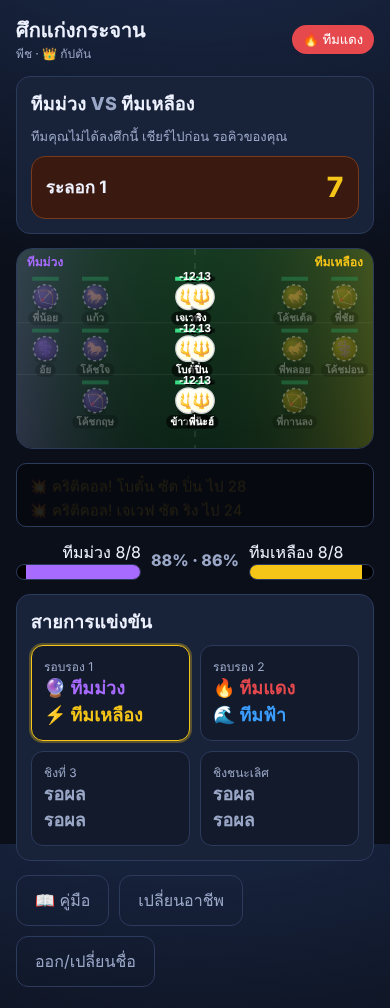
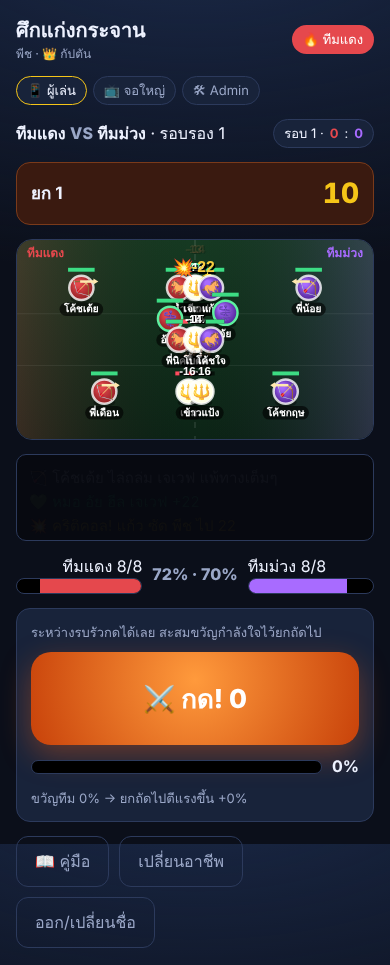
ออกครบ 8 คนตั้งแต่ยกแรก พักยกจัดทัพใหม่ทั้งทัพ ปรับสมดุล
Claude-Session: https://claude.ai/code/session_01JbJWCdY4QKd2woKbG6bJFF

diff --git a/js/app.js b/js/app.js
@@ -45,7 +45,7 @@
 
   // ---------- ศึกปัจจุบัน ----------
   const STAGES = ['plan', 'wave1', 'pause1', 'wave2', 'pause2', 'wave3', 'result'];
-  const STAGE_NAME = { plan: 'วางแผนตาบอด', wave1: 'ระลอก 1', pause1: 'พักปรับทัพ 1', wave2: 'ระลอก 2', pause2: 'พักปรับทัพ 2', wave3: 'ระลอก 3 — ชี้ขาด', result: 'ผลการรบ' };
+  const STAGE_NAME = { plan: 'วางแผนตาบอด', wave1: 'ยก 1', pause1: 'พักยก 1', wave2: 'ยก 2', pause2: 'พักยก 2', wave3: 'ยก 3 — ชี้ขาด', result: 'ผลการรบ' };
   function stageDur(stage) { const S = settings(); return { plan: S.tPlan, wave1: S.tWave1, pause1: S.tPause, wave2: S.tWave2, pause2: S.tPause, wave3: S.tWave3, result: 0 }[stage] || 0; }
   function waveIndexOf(stage) { return { wave1: 0, wave2: 1, wave3: 2 }[stage]; }
   function sideOf(team) { const m = st.match; if (!m) return null; return m.a === team ? 'A' : m.b === team ? 'B' : null; }
@@ -112,7 +112,7 @@
   function canMove(pid) {
     const p = st.players[pid]; const mine = myPlayer(); if (!p || !mine || p.team !== mine.team) return false;
     if (st.match && sideOf(p.team) && /^wave/.test(st.match.stage)) return false;
-    if (st.match && sideOf(p.team) && st.match.stage !== 'plan' && st.match.stage !== 'result') { const u = computeMatch().units.find((x) => x.id === pid); if (u && u.deployed) return false; }
+    if (st.match && sideOf(p.team) && st.match.stage !== 'plan' && st.match.stage !== 'result') { const u = computeMatch().units.find((x) => x.id === pid); if (u && !u.alive) return false; }
     return pid === me.pid || isCaptain() || isAdmin;
   }
   let tapTimer = null;
@@ -251,7 +251,7 @@
     const rows = ['หน้า', 'กลาง', 'หลัง'];
     let h = `<div class="board-head"><div></div><div>เลนบน</div><div>เลนกลาง</div><div>เลนล่าง</div></div><div class="board">`;
     for (let r = 0; r < 3; r++) {
-      h += `<div class="rowlab"><b>${rows[r]}</b><span>ระลอก ${r + 1}</span></div>`;
+      h += `<div class="rowlab"><b>${rows[r]}</b></div>`;
       for (let l = 0; l < 3; l++) {
         const c = r * 3 + l; const p = byCell[c];
         if (!p) { h += `<div class="cell ${ui.sel && opts.interactive ? 'target' : ''}" data-act="cell" data-team="${team}" data-cell="${c}"></div>`; continue; }
@@ -288,9 +288,8 @@
       <h3>เกมคืออะไร</h3><div>ทีมละ 8 ฮีโร่ (คุณเองนั่นแหละ) เลือกอาชีพ วางตำแหน่ง แล้วให้สนามจำลองสู้กันเอง 3 ระลอก ใครเหลือเลือดรวมมากกว่าชนะ แต่ละคู่ต้องชนะ ${S.roundsToWin} ใน 3 รอบ ทุกรอบเปลี่ยนอาชีพและจัดทัพใหม่ได้ · จับฉลาก รอบรอง → ชิงที่ 3 → ชิงชนะเลิศ รางวัล ${S.prizes.map((p) => p.toLocaleString()).join(' / ')} บาท</div>
       <h3>อาชีพแพ้ทางเป็นวงกลม</h3><div class="counter-table"><div>🐎 ม้า<br><b>ชนะ</b> ธนู 🏹</div><div>🔱 หอก<br><b>ชนะ</b> ม้า 🐎</div><div>🏹 ธนู<br><b>ชนะ</b> หอก 🔱</div></div>
       <div class="small muted">ตีคู่ที่ชนะทาง ×${S.counterWin} / ตีคู่ที่แพ้ทาง ×${S.counterLose} · ⚕ หมอไม่โจมตี ฮีลเพื่อนใกล้ๆ ทุก ${S.healEvery} วิ (ทีมละไม่เกิน ${S.medicMax}) · ม้าที่วิ่งมาไกลพุ่งชนครั้งแรกแรง ×${S.cavCharge}</div>
-      <h3>แถวที่วาง = จังหวะที่ออก</h3><ol><li><b>แถวหน้า</b> ออกวินาทีที่ 0 (ระลอก 1)</li><li><b>แถวกลาง</b> ออกระลอก 2</li><li><b>แถวหลัง</b> ไพ่ตาย ออกระลอก 3 ดาเมจทุกคน ×${S.waveMult[2]}</li></ol>
-      <div class="small">มี 9 ช่อง 8 คน เลนบน/กลาง/ล่าง มีผล: หอกตีคนที่ใกล้ในเลนตัวเองก่อน ม้าพุ่งข้ามไปหาแถวหลัง ธนูยิงจากไกล</div>
-      <h3>ช่วงพักปรับทัพ (${S.tPause} วิ) ทำได้ 4 อย่าง</h3><ol><li>ย้ายฮีโร่ที่ <b>ยังไม่ออก</b> ไปช่องไหนก็ได้</li><li>กัปตันเลือก <b>แผนเข้าตี</b>: ปะทะหน้า / เข้าด้านข้าง / โอบหลัง</li><li>กัปตันเลือก <b>ไอเทม</b> 1 ชิ้น (มี 4 ชิ้น แต่ละชิ้นใช้ได้ครั้งเดียวตลอดคู่ ต้องเลือกว่าจะทุ่มรอบไหน)</li><li><b>ทุกคนรัวกด</b> เติมขวัญกำลังใจ → ระลอกถัดไปตีแรงขึ้นสูงสุด +${Math.round(S.moraleMax * 100)}%</li></ol>
+      <h3>ตำแหน่งมีผล</h3><div class="small">ทั้ง 8 คนออกพร้อมกันตั้งแต่ยกแรก มี 9 ช่อง: <b>แถวหน้า</b> ปะทะก่อน · <b>แถวหลัง</b> ปลอดภัยกว่า (เหมาะกับธนู/หมอ) แต่ม้าศัตรูที่เลือก "โอบหลัง" จะพุ่งมาหา · เลนบน/กลาง/ล่าง: หอกตีคนที่ใกล้ในเลนตัวเองก่อน · ยก 2 ดาเมจ ×${S.waveMult[1]} ยก 3 ×${S.waveMult[2]}</div>
+      <h3>พักยก (${S.tPause} วิ) ทุกคนที่รอดกลับเข้าตำแหน่ง เลือดเท่าเดิม ทำได้ 4 อย่าง</h3><ol><li>จัดตำแหน่งใหม่ <b>ทั้งทัพ</b> (คนที่ล้มแล้วไม่ฟื้น) เช่น เอาหอกไปดักเลนที่ม้าเขามา</li><li>กัปตันเลือก <b>แผนเข้าตี</b>: ปะทะหน้า / เข้าด้านข้าง / โอบหลัง</li><li>กัปตันเลือก <b>ไอเทม</b> 1 ชิ้น (มี 4 ชิ้น แต่ละชิ้นใช้ได้ครั้งเดียวตลอดคู่ ต้องเลือกว่าจะทุ่มรอบไหน)</li><li><b>ทุกคนรัวกด</b> เติมขวัญกำลังใจ → ระลอกถัดไปตีแรงขึ้นสูงสุด +${Math.round(S.moraleMax * 100)}%</li></ol>
       <h3>ไอเทมจากกิจกรรม outing</h3><div class="small">ทุกทีมได้ครบ 4 ชิ้น แต่ <b>ระดับต่างกันตามอันดับ</b>: ที่ 1 = เทพ, ที่ 2 = แกร่ง, ที่ 3 = ธรรมดา, ที่ 4 = ขำๆ</div>
       ${Object.values(D.ITEMS).map((I) => `<div class="small">${I.emoji} <b>${I.name}</b> — ${I.desc}: ${I.tiers.map((v, i) => D.TIER_NAMES[i] + ' ' + v + I.unit).join(' / ')}</div>`).join('')}
       <h3>ตัดสินผล</h3><div class="small">ฝ่ายไหนล้มหมดก่อนแพ้ทันที → ครบ 3 ระลอกวัด % เลือดรวม → เท่ากันวัดยอดรัวกด · ดาเมจมีสุ่ม ±15% และคริติคอล 10% ×2 เพื่อให้ลุ้น แต่การวางแผนคือตัวตัดสินหลัก</div>
@@ -333,9 +332,9 @@
   function viewLobbyPlayer(p) {
     const team = p.team;
     let h = `<div class="panel"><div class="row"><h2 class="grow">จัดทัพ ${D.TEAMS[team].name}</h2><span class="badge">${teamPlayers(team).filter((x) => x.cell != null).length}/8 ลงสนาม</span></div>
-      <div class="hint">${ui.sel ? '👉 แตะช่องว่างที่จะวาง (แตะช่องที่มีคนเพื่อสลับ)' : 'แตะตัวเอง' + (isCaptain() ? ' หรือเพื่อนร่วมทีม (กัปตันย้ายได้ทุกคน)' : '') + ' แล้วแตะช่องที่จะวาง · แถวหน้าออกก่อน แถวหลังออกทีหลัง'}</div>
+      <div class="hint">${ui.sel ? '👉 แตะช่องว่างที่จะวาง (แตะช่องที่มีคนเพื่อสลับ)' : 'แตะตัวเอง' + (isCaptain() ? ' หรือเพื่อนร่วมทีม (กัปตันย้ายได้ทุกคน)' : '') + ' แล้วแตะช่องที่จะวาง · แถวหน้าปะทะก่อน แถวหลังปลอดภัยกว่าแต่ม้าศัตรูพุ่งมาหาได้'}</div>
       ${boardHtml(team, { interactive: true })}</div>`;
-    h += `<div class="panel"><h2>แผนเข้าตีระลอกแรก ${isCaptain() ? '' : '<span class="small muted">(กัปตันเลือก)</span>'}</h2>${plansHtml(team, isCaptain())}</div>`;
+    h += `<div class="panel"><h2>แผนเข้าตียกแรก ${isCaptain() ? '' : '<span class="small muted">(กัปตันเลือก)</span>'}</h2>${plansHtml(team, isCaptain())}</div>`;
     h += `<div class="panel"><h2>ไอเทมของทีม</h2><div class="hint">ได้จากอันดับกิจกรรม outing ใช้ได้ในช่วงพักปรับทัพ</div>${itemsHtml(team, false)}</div>`;
     h += `<div class="panel"><h2>สมาชิก</h2><div class="roster-list">` + roster(team).map((n) => { const q = playerByName(team, n); return `<div class="u"><span>${q && q.cls ? D.CLASSES[q.cls].emoji : (q ? '❔' : '⬜')}</span><span>${esc(n)} ${captain(team) === n ? '👑' : ''}</span><span class="small muted">${q ? (q.cell != null ? 'ลงสนาม' : 'ยังไม่วาง') : 'ยังไม่เข้า'}</span></div>`; }).join('') + `</div></div>`;
     h += practiceHtml(team);
@@ -399,20 +398,20 @@
     if (m.stage === 'result') return h + viewResult() + (st.bracket ? viewBracket() : '');
     if (wave) {
       h += `<div class="arena"><canvas id="arena"></canvas><div class="overlay" id="arena-overlay"></div></div><div class="commentary" id="commentary"></div>` + hpSummaryHtml();
-      h += `<div class="panel"><div class="hint">ระหว่างรบรัวกดได้เลย สะสมขวัญกำลังใจไว้ระลอกถัดไป</div>` + tapHtml(side) + `</div>`;
+      h += `<div class="panel"><div class="hint">ระหว่างรบรัวกดได้เลย สะสมขวัญกำลังใจไว้ยกถัดไป</div>` + tapHtml(side) + `</div>`;
       return h;
     }
     // plan / pause
     const S = settings(); const w = m.stage === 'plan' ? 0 : m.stage === 'pause1' ? 1 : 2;
     const cm = computeMatch();
     if (m.stage !== 'plan') h += hpSummaryHtml();
-    h += `<div class="panel"><div class="row"><h2 class="grow">${m.stage === 'plan' ? 'วางทัพ 8 คน' : 'ปรับทัพก่อนระลอก ' + (w + 1)}</h2><span class="badge">${teamPlayers(team).filter((x) => x.cell != null).length}/8</span></div>
-      <div class="hint">${ui.sel ? '👉 แตะช่องที่จะวาง' : (m.stage === 'plan' ? 'คู่แข่งยังไม่เห็นทัพคุณ วางแล้วเลือกแผน' : 'ย้ายได้เฉพาะคนที่ยังไม่ออก (⚔ = ออกสนามแล้ว)')}</div>${boardHtml(team, { interactive: true })}${m.stage === 'plan' ? `<button class="ghost" data-act="change-class">🔁 เปลี่ยนอาชีพของฉัน (${D.CLASSES[p.cls].emoji} ${D.CLASSES[p.cls].name})</button>` : ''}</div>`;
+    h += `<div class="panel"><div class="row"><h2 class="grow">${m.stage === 'plan' ? 'วางทัพ 8 คน' : 'พักยก — จัดทัพใหม่ก่อนยก ' + (w + 1)}</h2><span class="badge">${teamPlayers(team).filter((x) => x.cell != null).length}/8</span></div>
+      <div class="hint">${ui.sel ? '👉 แตะช่องที่จะวาง' : (m.stage === 'plan' ? 'คู่แข่งยังไม่เห็นทัพคุณ วางแล้วเลือกแผน' : 'พักยก: ทุกคนที่ยังรอดกลับเข้าตำแหน่ง ย้ายใหม่ได้ทั้งทัพ (เลือดไม่ฟื้น)')}</div>${boardHtml(team, { interactive: true })}${m.stage === 'plan' ? `<button class="ghost" data-act="change-class">🔁 เปลี่ยนอาชีพของฉัน (${D.CLASSES[p.cls].emoji} ${D.CLASSES[p.cls].name})</button>` : ''}</div>`;
     if (m.stage !== 'plan') {
       h += `<div class="panel"><h3>ทัพศัตรู (${D.TEAMS[enemy].name}) ตอนนี้</h3>${boardHtml(enemy, {})}</div>`;
     }
-    h += `<div class="panel"><h2>แผนเข้าตีระลอก ${w + 1} ${isCaptain() ? '' : '<span class="small muted">(กัปตันเลือก)</span>'}</h2>${plansHtml(team, isCaptain())}</div>`;
-    if (m.stage !== 'plan') h += `<div class="panel"><h2>ใช้ไอเทมระลอกนี้ ${isCaptain() ? '' : '<span class="small muted">(กัปตันเลือก)</span>'}</h2><div class="hint">ระลอกละ 1 ชิ้น แต่ละชิ้นใช้ได้ครั้งเดียวตลอดคู่นี้ (ทุกรอบรวมกัน) แตะซ้ำเพื่อยกเลิก</div>${itemsHtml(team, isCaptain())}</div>`;
+    h += `<div class="panel"><h2>แผนเข้าตียก ${w + 1} ${isCaptain() ? '' : '<span class="small muted">(กัปตันเลือก)</span>'}</h2>${plansHtml(team, isCaptain())}</div>`;
+    if (m.stage !== 'plan') h += `<div class="panel"><h2>ใช้ไอเทมยกนี้ ${isCaptain() ? '' : '<span class="small muted">(กัปตันเลือก)</span>'}</h2><div class="hint">ยกละ 1 ชิ้น แต่ละชิ้นใช้ได้ครั้งเดียวตลอดคู่นี้ (ทุกรอบรวมกัน) แตะซ้ำเพื่อยกเลิก</div>${itemsHtml(team, isCaptain())}</div>`;
     h += `<div class="panel sticky-bottom"><h2>🔥 รัวกดเติมขวัญกำลังใจ</h2>` + tapHtml(side) + `</div>`;
     return h;
   }
@@ -420,7 +419,7 @@
     const stg = currentTapStage(); const stages = Object.keys(MORALE_STAGES).find((k) => MORALE_STAGES[k].includes(stg));
     const morale = stages ? moraleFor(side, MORALE_STAGES[stages]) : 0;
     const mine = ui.tapStage === stg ? ui.tapCount : 0;
-    return `<button class="tap-btn" data-act="tap">⚔ กด! <span id="tapcount">${mine}</span></button><div class="row"><div class="grow meter ${morale >= 1 ? 'good' : ''}"><i style="width:${Math.round(morale * 100)}%"></i></div><b>${Math.round(morale * 100)}%</b></div><div class="hint">ขวัญทีม ${Math.round(morale * 100)}% → ระลอกถัดไปตีแรงขึ้น +${Math.round(settings().moraleMax * morale * 100)}%</div>`;
+    return `<button class="tap-btn" data-act="tap">⚔ กด! <span id="tapcount">${mine}</span></button><div class="row"><div class="grow meter ${morale >= 1 ? 'good' : ''}"><i style="width:${Math.round(morale * 100)}%"></i></div><b>${Math.round(morale * 100)}%</b></div><div class="hint">ขวัญทีม ${Math.round(morale * 100)}% → ยกถัดไปตีแรงขึ้น +${Math.round(settings().moraleMax * morale * 100)}%</div>`;
   }
   function hpSummaryHtml() {
     const m = st.match; const cm = computeMatch(); if (!cm.units.length) return '';
@@ -509,7 +508,7 @@
     else if (m.stage !== 'result') h += `<div class="small muted">กำลังวางแผน… (ลับ)</div><div class="row"><div class="grow meter ${morale >= 1 ? 'good' : ''}"><i style="width:${Math.round(morale * 100)}%"></i></div><b>${Math.round(morale * 100)}%</b></div>`;
     const ps = teamPlayers(team).filter((p) => p.cell != null).sort((a, b) => a.cell - b.cell);
     h += `<div class="roster-list">` + ps.map((p) => { const pid = D.slug(team + ':' + p.name); const u = live.find((x) => x.id === pid); const pct = u ? u.hp / u.maxHp : 1;
-      return `<div class="u ${u && !u.alive ? 'dead' : ''}"><span>${p.cls ? D.CLASSES[p.cls].emoji : '❔'}</span><span>${esc(p.name)} ${u && !u.deployed && u.alive ? '<span class="small muted">(รอ)</span>' : ''}</span><div class="b"><i style="width:${Math.round(pct * 100)}%;background:${pct > .5 ? '#3ddc84' : pct > .25 ? '#f5c518' : '#ff4d5e'}"></i></div></div>`; }).join('') + `</div>`;
+      return `<div class="u ${u && !u.alive ? 'dead' : ''}"><span>${p.cls ? D.CLASSES[p.cls].emoji : '❔'}</span><span>${esc(p.name)} ${u && !u.deployed && u.alive ? '' : ''}</span><div class="b"><i style="width:${Math.round(pct * 100)}%;background:${pct > .5 ? '#3ddc84' : pct > .25 ? '#f5c518' : '#ff4d5e'}"></i></div></div>`; }).join('') + `</div>`;
     h += `<div class="row small">` + teamItems(team).map((it) => `<span class="chip ${it.used ? 'muted' : ''}">${D.ITEMS[it.id].emoji} ${it.locked ? '?' : D.TIER_NAMES[it.tier]}${it.used ? ' ✓' : ''}</span>`).join('') + `</div></div>`;
     return h;
   }
@@ -601,7 +600,7 @@
           if (pid && !canMove(pid)) { toast('ย้ายคนนี้ไม่ได้'); return; }
           await moveHero(ui.sel, cell); ui.sel = null; return;
         }
-        if (pid) { if (!canMove(pid)) { toast(pid === me.pid ? 'ตอนนี้ย้ายไม่ได้ (ออกสนามแล้วหรืออยู่ระหว่างรบ)' : 'ย้ายได้เฉพาะตัวเอง (กัปตันย้ายได้ทุกคน)'); return; } ui.sel = pid; render(); }
+        if (pid) { if (!canMove(pid)) { toast(pid === me.pid ? 'ตอนนี้ย้ายไม่ได้ (ล้มแล้วหรืออยู่ระหว่างรบ)' : 'ย้ายได้เฉพาะตัวเอง (กัปตันย้ายได้ทุกคน)'); return; } ui.sel = pid; render(); }
       }
       else if (act === 'plan') { const p = myPlayer(); if (!p || !(isCaptain() || isAdmin)) return; await R('teams/' + p.team).update({ plan: el.dataset.plan }); }
       else if (act === 'item') { const p = myPlayer(); if (!p || !(isCaptain() || isAdmin)) return; const cur = st.teams[p.team] && st.teams[p.team].item; await R('teams/' + p.team).update({ item: cur && cur.id === el.dataset.item ? null : { id: el.dataset.item } }); }

diff --git a/js/sim.js b/js/sim.js
@@ -83,7 +83,7 @@ window.Sim = (function () {
                 alive: true, deployed: false, stunUntil: -1, cd: 0, lastHeal: -99, engaged: false };
           units.push(u); byId[pid] = u;
         }
-        if (!u.deployed) { u.cell = +c; const pos = cellPos(side, u.cell); u.x = pos.x; u.y = pos.y; }
+        if (u.alive) { u.cell = +c; const pos = cellPos(side, u.cell); u.x = pos.x; u.y = pos.y; } // พักยก: กลับเข้าตำแหน่งที่จัดไว้
       }
       // ไอเทม
       const mod = sideMod[side];
@@ -101,11 +101,10 @@ window.Sim = (function () {
       }
     }
 
-    // ส่งตัวเข้าสนาม: แถวที่ <= waveIdx
+    // ส่งตัวเข้าสนามทั้งหมดตั้งแต่ยกแรก
     for (const u of units) {
       if (!u.alive) continue;
-      const row = Math.floor(u.cell / 3);
-      if (!u.deployed && row <= waveIdx) {
+      if (!u.deployed) {
         u.deployed = true; u.cd = rnd() * 0.6; // เริ่มตีไม่พร้อมกัน
         events.push({ t: 0, type: 'enter', id: u.id, side: u.side, name: u.name, cls: u.cls });
       }

diff --git a/js/data.js b/js/data.js
@@ -64,17 +64,17 @@ window.GameData = (function () {
     pin: '1234',
     prizes: [3200, 2500, 1900, 1400],
     // เวลา (วินาที)
-    tPlan: 40, tWave1: 12, tPause: 15, tWave2: 12, tWave3: 20, tResult: 30, roundsToWin: 2,
+    tPlan: 40, tWave1: 15, tPause: 20, tWave2: 15, tWave3: 20, tResult: 30, roundsToWin: 2,
     // สมดุลอาชีพ
     hp:  { cav: 125, spear: 175, archer: 105, medic: 120 },
-    atk: { cav: 14, spear: 12, archer: 10, medic: 0 },
+    atk: { cav: 14, spear: 13, archer: 11, medic: 0 },
     speed: { cav: 2.4, spear: 1.2, archer: 1.4, medic: 1.3 },
     healAmt: 22, healEvery: 1.5, medicMax: 2,
     counterWin: 1.25, counterLose: 0.8,
-    waveMult: [1.0, 1.3, 1.7],
+    waveMult: [1.0, 1.15, 1.4],
     varMin: 0.85, varMax: 1.15, critChance: 0.10, critMult: 2.0,
     moraleMax: 0.30, tapsPerPersonFull: 40,
-    planFrontBonus: 1.10, planBackExposed: 1.15, cavCharge: 1.8,
+    planFrontBonus: 1.10, planBackExposed: 1.15, cavCharge: 1.4,
     attackEvery: 1.0, archerRange: 0.38, meleeRange: 0.055, healRange: 0.2,
   };
 
